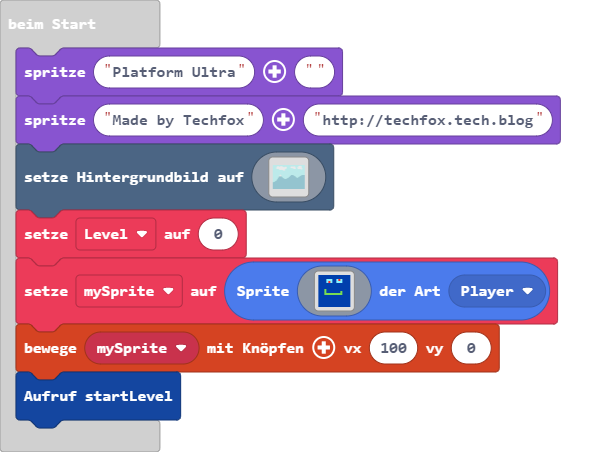
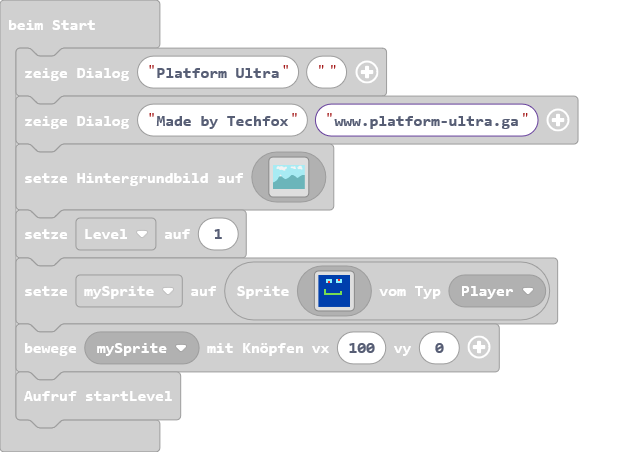
Aktualisiere main.blocks, main.ts

diff --git a/main.ts b/main.ts
@@ -551,7 +551,7 @@ let bee: Sprite = null
 let mySprite: Sprite = null
 let Level = 0
 game.splash("Platform Ultra", "")
-game.splash("Made by Techfox", "www.seed.tk")
+game.splash("Made by Techfox", "www.platform-ultra.ga")
 scene.setBackgroundImage(img`
     9999999999999999999999999999999999999999999999999999999999999999999999999999999999999999999999999999999999999999999999999999999999999999999999999999999999999999
     9999999999999999999999999999999999999999999999999999999999999999999999999999999999999999999999999999999999999999999999999999999999999999999999999999999999999999
